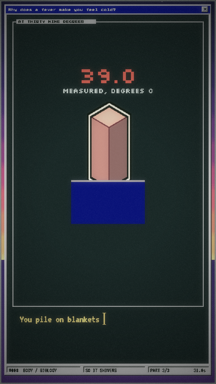
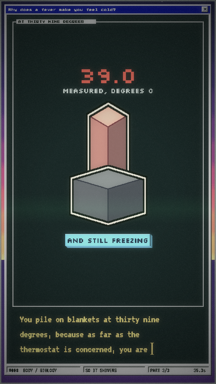
vid: #008's blanket was a flat rectangle in Win95 navy
Two things wrong with it, and neither is something a sweep can see. P.navy is
the title-bar blue -- it belongs to layer 1 and has no business inside the
client area, the same mistake I had just fixed in #009's UV band. And an
unshaded rectangle, in a frame where every other object is a three-tone
isometric solid with a ringed outline, reads as a hole punched in the picture
rather than as bedding.

It is a faceted slab now, in a palette slot, and the figure sits in it.
Thumbnail recut off the same frame.

Changed region(s): [[0.3056, 0.25, 0.7222, 0.6562], [0.0833, 0.8125, 0.75, 0.9375]]

diff --git a/docs/vid/fever/piece.js b/docs/vid/fever/piece.js
@@ -354,11 +354,21 @@ function explainer(ctx,W2,Hh,t){
                  H.rgba(H.mix(P.red,P.ink,0.72)));
       // the blanket, hauled up over it
       if(after(7,2)){
+        /* A faceted slab, not a flat rect in chrome navy. It was both: the
+           Win95 blue belongs to LAYER 1 and has no business on the screen,
+           and an unshaded rectangle in a frame where every other object is a
+           three-tone isometric solid reads as a hole, not a quilt. */
         const bl=H.ease.out(mp(wordAt(7,2),wordAt(7,2)+1.10*SPD));
-        const top=Math.round(H.lerp(S.bl+40,S.bl-18,bl));
-        rect(S.cx-74,top,148,S.bl+96-top,H.rgba(H.mix(P.navy,P.ink,0.28)));
-        rect(S.cx-74,top,148,4,H.rgba(H.mix(P.paper,P.ink,0.40)));
-        if(GBOX)GBOX.push({x:S.cx-74,y:top,w:148,h:S.bl+96-top,k:'blanketbox'});
+        const top=Math.round(H.lerp(S.bl+40,S.bl-18,bl)), bot=S.bl+96;
+        const q=S.cx, w=74, d=22;
+        const out=[[q,top],[q+w,top+d],[q+w,bot-d],[q,bot],[q-w,bot-d],[q-w,top+d]];
+        const fs=[[[q,top],[q+w,top+d],[q,top+2*d],[q-w,top+d]],
+                  [[q-w,top+d],[q,top+2*d],[q,bot],[q-w,bot-d]],
+                  [[q,top+2*d],[q+w,top+d],[q+w,bot-d],[q,bot]]];
+        const qc=H.mix(P.ice,P.earth,0.58);
+        solidShape(fs.map((f,i)=>({p:f,c:H.rgba(H.mix(qc,P.ink,[0,0.30,0.52][i]))})),
+                   out,H.rgba(H.mix(P.ink,P.paper,0.92)),
+                   H.rgba(H.mix(qc,P.ink,0.76)),'blanket');
       }
       px(FEVER.toFixed(1),216,S.num,44,P.red,'center','"Silkscreen"');
       px('MEASURED, DEGREES C',216,S.lab,14,'#cdd6d0','center','"Silkscreen"');
